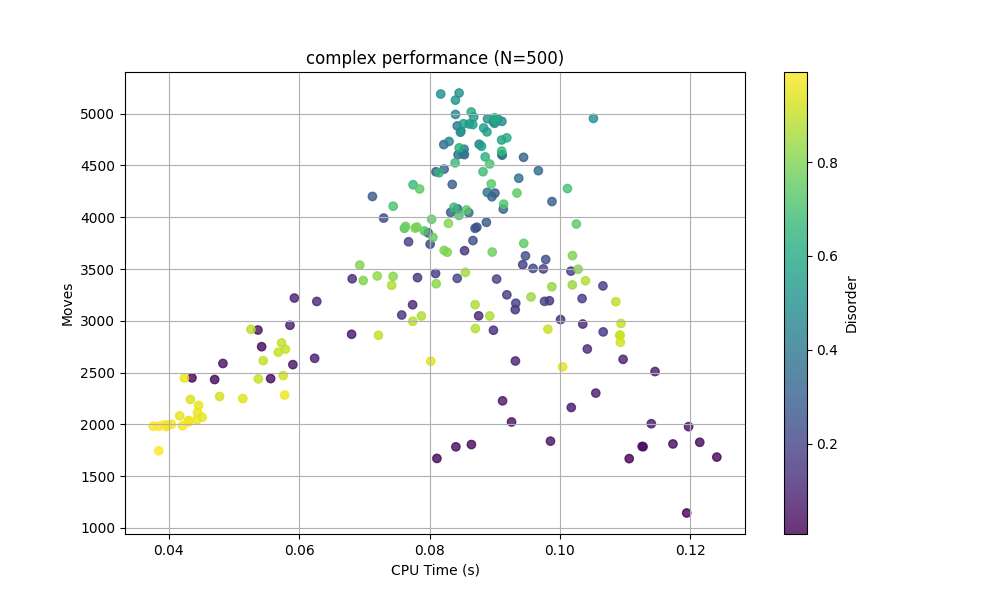
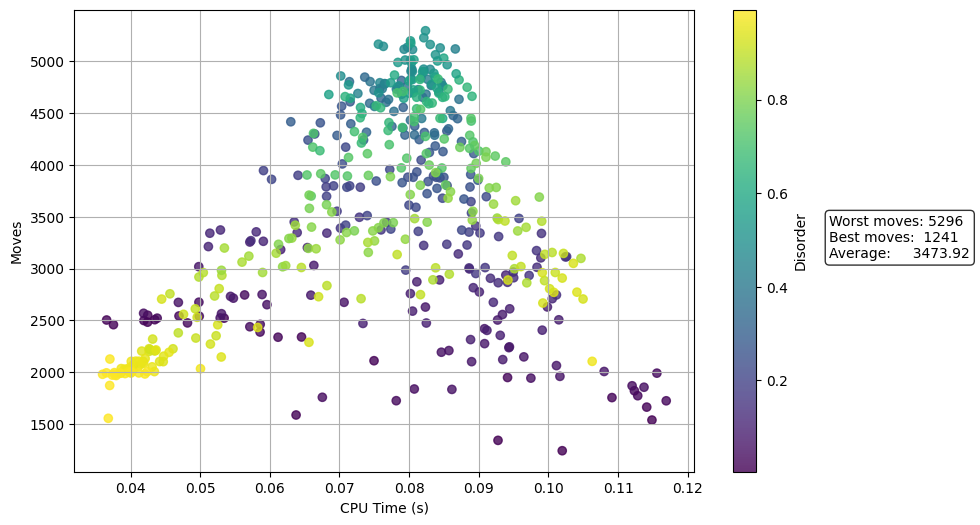
statistics added to plots

diff --git a/src/benchmark.py b/src/benchmark.py
@@ -11,6 +11,7 @@ import matplotlib.pyplot as plt
 from collections import defaultdict
 import shutil
 import sys
+import os
 
 # --------------------------
 # Configuration
@@ -147,11 +148,31 @@ def plot_single_from_csv(algo, size):
     )
     plt.xlabel("CPU Time (s)")
     plt.ylabel("Moves")
-    plt.title(f"{algo} performance (N={size})")
-    plt.colorbar(scatter, label="Disorder")
+    cbar = plt.colorbar(scatter, label="Disorder")
+
+    # --------------------------
+    # Statistics
+    # --------------------------
+    worst = df["moves"].max()
+    best = df["moves"].min()
+    avg = df["moves"].mean()
+
+    stats_text = (
+        f"Worst moves: {worst}\n"
+        f"Best moves:  {best}\n"
+        f"Average:     {avg:.2f}"
+    )
+
+    plt.gcf().text(
+        0.88, 0.5, stats_text,
+        fontsize=10,
+        verticalalignment="center",
+        bbox=dict(boxstyle="round", facecolor="white", alpha=0.8)
+    )
+
     plt.grid(True)
     out_file = f"plots/{algo}_n{size}.png"
-    plt.savefig(out_file)
+    plt.savefig(out_file, bbox_inches="tight")
     plt.close()
     print(f"Saved plot from CSV: {out_file}")
 
@@ -159,7 +180,8 @@ def plot_single_from_csv(algo, size):
 def plot_compare_from_csv(size):
     """Compare algorithms: CPU time vs moves colored by disorder, different marker per algo"""
     os.makedirs("plots", exist_ok=True)
-    plt.figure(figsize=(12, 6))
+
+    fig, ax = plt.subplots(figsize=(12, 6))
 
     algo_markers = {
         "simple": "o",
@@ -167,34 +189,101 @@ def plot_compare_from_csv(size):
         "complex": "^",
     }
 
+    scatter = None
+
+    # --------------------------
+    # Scatter plots
+    # --------------------------
     for algo, marker in algo_markers.items():
         filename = f"data/{algo}_n{size}.csv"
         if not os.path.exists(filename):
             print(f"CSV file not found: {filename}, skipping {algo}")
             continue
+
         df = pd.read_csv(filename)
-        plt.scatter(
+
+        scatter = ax.scatter(
             df["time"],
             df["moves"],
             c=df["disorder"],
             cmap="viridis",
             alpha=0.7,
             marker=marker,
-            edgecolors='k',
+            edgecolors="k",
             linewidths=0.3,
             label=algo
         )
 
-    plt.xlabel("CPU Time (s)")
-    plt.ylabel("Moves")
-    plt.title(f"Push_swap Algorithm Comparison (N={size})")
-    plt.colorbar(label="Disorder")
-    plt.legend(title="Algorithm")
-    plt.grid(True)
-    plt.tight_layout()
+    # --------------------------
+    # Axes labels and title
+    # --------------------------
+    ax.set_xlabel("CPU Time (s)")
+    ax.set_ylabel("Moves")
+    ax.set_title(f"Push_swap Algorithm Comparison (N={size})")
+    ax.grid(True)
+
+    # --------------------------
+    # Colorbar
+    # --------------------------
+    if scatter is not None:
+        cbar = fig.colorbar(scatter, ax=ax)
+        cbar.set_label("Disorder")
+
+    # --------------------------
+    # Legend
+    # --------------------------
+    ax.legend(title="Algorithm")
+
+    # --------------------------
+    # Statistics per algorithm
+    # --------------------------
+    stats_lines = []
+
+    for algo in algo_markers.keys():
+        filename = f"data/{algo}_n{size}.csv"
+        if not os.path.exists(filename):
+            continue
+
+        df = pd.read_csv(filename)
+
+        worst = df["moves"].max()
+        best = df["moves"].min()
+        avg = df["moves"].mean()
+
+        stats_lines.append(
+            f"{algo}\n"
+            f"  worst: {worst}\n"
+            f"  best:  {best}\n"
+            f"  avg:   {avg:.2f}"
+        )
+
+    stats_text = "\n\n".join(stats_lines)
+
+    # --------------------------
+    # Layout: reserve right space
+    # --------------------------
+    fig.tight_layout(rect=[0, 0, 0.80, 1])
+
+    # --------------------------
+    # Statistics box (right side)
+    # --------------------------
+    fig.text(
+        0.83,
+        0.5,
+        stats_text,
+        ha="left",
+        va="center",
+        fontsize=10,
+        bbox=dict(boxstyle="round", facecolor="white", alpha=0.9)
+    )
+
+    # --------------------------
+    # Save figure
+    # --------------------------
     out_file = f"plots/compare_n{size}.png"
-    plt.savefig(out_file)
-    plt.close()
+    fig.savefig(out_file)
+    plt.close(fig)
+
     print(f"Saved comparison plot from CSV: {out_file}")
 
 
@@ -208,9 +297,7 @@ def positive_int_greater_one(value):
 
 
 def main():
-    import sys
-    import shutil
-    import os
+
 
     # --------------------------
     # Handle "clean" as first argument
